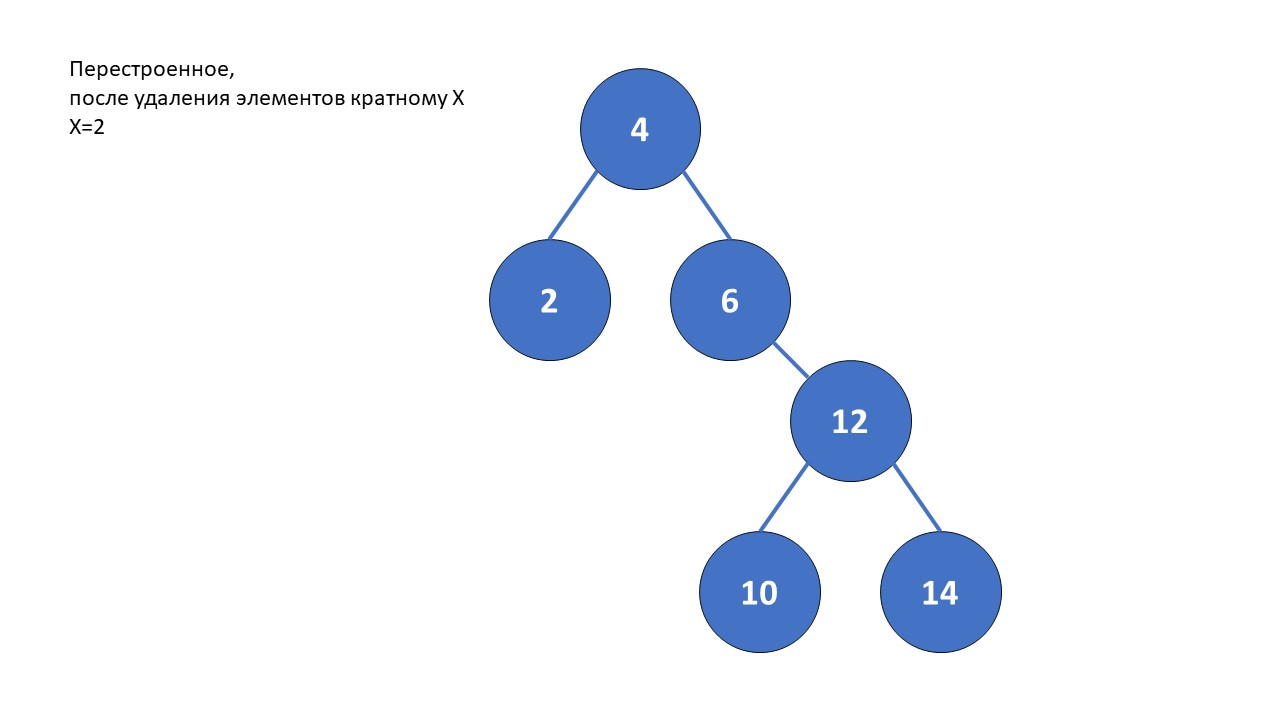
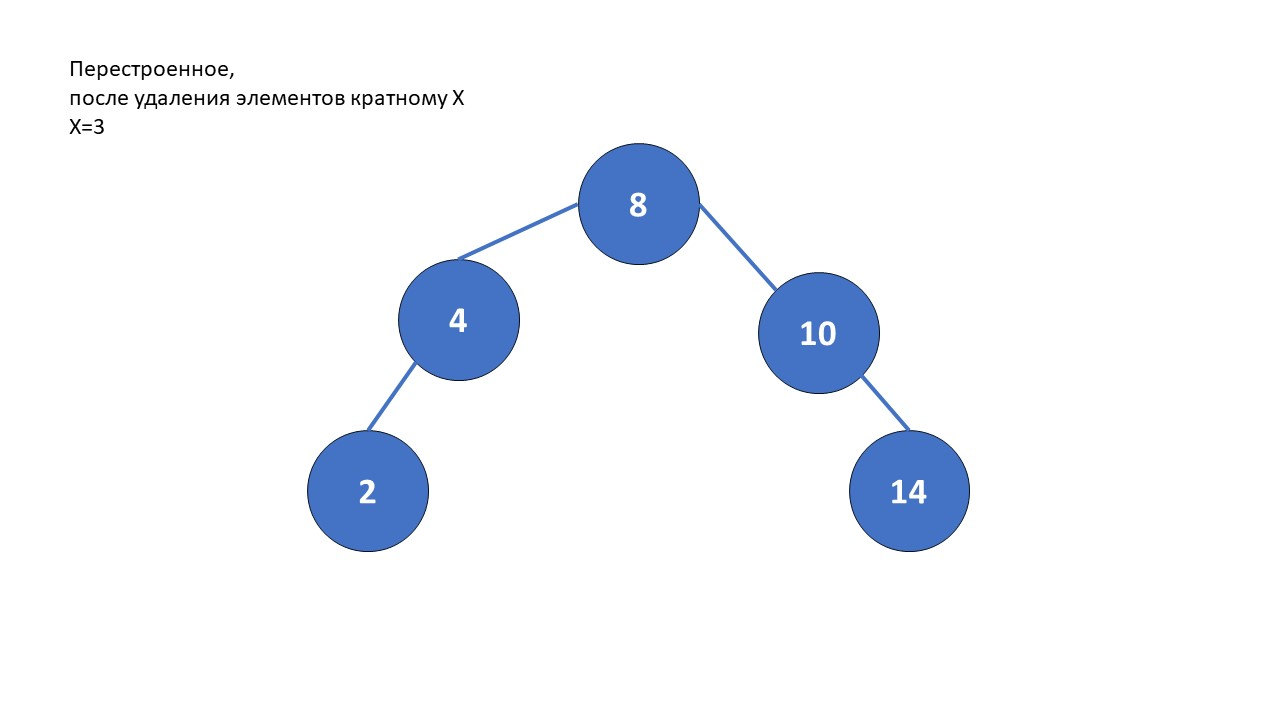
Сделано Tree1 и Tree2

Changed region(s): [[0.3125, 0.0917, 0.7812, 0.9167], [0.5312, 0.6722, 0.6562, 0.9167], [0.2188, 0.55, 0.3438, 0.7639]]

diff --git a/Tree2/Tree2.cpp b/Tree2/Tree2.cpp
@@ -1,20 +1,110 @@
-// Tree2.cpp : Этот файл содержит функцию "main". Здесь начинается и заканчивается выполнение программы.
-//
+#include <iostream>
+using namespace std;
 
-#include <iostream>
+struct Node {
+	int value;
+	Node* left; // потомоки
+	Node* right;
 
-int main()
-{
-    std::cout << "Hello World!\n"; 
+	Node(int val) : value(val), left(nullptr), right(nullptr) {} // Конструктор, который устанавливает значение узла при его создании
+};
+
+// Функция для вставки элемента в дерево
+Node* insert(Node* root, int value) {
+	if (root == nullptr) {
+		return new Node(value);
+	}
+
+	if (value < root->value) {
+		root->left = insert(root->left, value);
+	}
+	else {
+		root->right = insert(root->right, value);
+	}
+
+	return root;
 }
 
-// Запуск программы: CTRL+F5 или меню "Отладка" > "Запуск без отладки"
-// Отладка программы: F5 или меню "Отладка" > "Запустить отладку"
+// Функция для слияния двух поддеревьев
+Node* merge(Node* left, Node* right) {
+	if (left == nullptr) {
+		return right;
+	}
+	if (right == nullptr) {
+		return left;
+	}
 
-// Советы по началу работы 
-//   1. В окне обозревателя решений можно добавлять файлы и управлять ими.
-//   2. В окне Team Explorer можно подключиться к системе управления версиями.
-//   3. В окне "Выходные данные" можно просматривать выходные данные сборки и другие сообщения.
-//   4. В окне "Список ошибок" можно просматривать ошибки.
-//   5. Последовательно выберите пункты меню "Проект" > "Добавить новый элемент", чтобы создать файлы кода, или "Проект" > "Добавить существующий элемент", чтобы добавить в проект существующие файлы кода.
-//   6. Чтобы снова открыть этот проект позже, выберите пункты меню "Файл" > "Открыть" > "Проект" и выберите SLN-файл.
+	// Находим самый правый узел в левом поддереве
+	Node* current = left;
+	while (current->right != nullptr) {
+		current = current->right;
+	}
+
+	// Присоединяем правое поддерево к самому правому узлу левого поддерева
+	current->right = right;
+
+	return left;
+}
+
+
+// Функция для прямого обхода дерева и выполнения операций над значениями
+Node* preOrderTraversal(Node* root, int x) {
+	if (root == nullptr) {
+		return nullptr;
+	}
+
+	// Рекурсивно вызываем обход для левого и правого поддерева
+	root->left = preOrderTraversal(root->left, x);
+	root->right = preOrderTraversal(root->right, x);
+
+	// Выполняем операции над значением узла
+	if (root->value % x == 0) {
+		// Удаляем узел, кратный X
+		Node* left = root->left;
+		Node* right = root->right;
+		delete root;
+		return merge(left, right);
+	}
+
+	return root;
+}
+
+
+// Функция для вывода элементов дерева
+void printTree(Node* root) {
+	if (root == nullptr) {
+		return;
+	}
+
+	cout << root->value << " ";
+	printTree(root->left);
+	printTree(root->right);
+}
+
+int main() {
+	// Создание дерева
+	Node* root = nullptr;
+
+	// Вставка элементов в дерево
+	root = insert(root, 8);
+	root = insert(root, 4);
+	root = insert(root, 12);
+	root = insert(root, 2);
+	root = insert(root, 7);
+	root = insert(root, 10);
+	root = insert(root, 14);
+
+	// Вывод изначального дерева в порядке их обхода
+	cout << "Start tree: ";
+	printTree(root);
+	cout << endl;
+
+	int x=2;
+	// Прямой обход дерева и удаление элементов, кратных X
+	root = preOrderTraversal(root, x);
+
+	// Вывод элементов нового дерева
+	cout << "End Tree: ";
+	printTree(root);
+	cout << endl;
+}

diff --git a/Tree1/Tree1.cpp b/Tree1/Tree1.cpp
@@ -3,10 +3,10 @@ using namespace std;
 
 struct Node {
 	int value;
-	Node* left; //потомоки
-	Node* right; 
+	Node* left; // потомоки
+	Node* right;
 
-	Node(int val) : value(val), left(nullptr), right(nullptr) {} //Конструктор, который устанавливает значение узла при его создании
+	Node(int val) : value(val), left(nullptr), right(nullptr) {} // Конструктор, который устанавливает значение узла при его создании
 };
 
 // Функция для вставки элемента в дерево
@@ -53,6 +53,10 @@ Node* preOrderTraversal(Node* root, int x) {
 		return nullptr;
 	}
 
+	// Рекурсивно вызываем обход для левого и правого поддерева
+	root->left = preOrderTraversal(root->left, x);
+	root->right = preOrderTraversal(root->right, x);
+
 	// Выполняем операции над значением узла
 	if (root->value % x == 0) {
 		// Удаляем узел, кратный X
@@ -61,12 +65,6 @@ Node* preOrderTraversal(Node* root, int x) {
 		delete root;
 		return merge(left, right);
 	}
-
-	cout << root->value << " ";
-
-	// Рекурсивно вызываем обход для левого и правого поддерева
-	root->left = preOrderTraversal(root->left, x);
-	root->right = preOrderTraversal(root->right, x);
 
 	return root;
 }
@@ -103,7 +101,7 @@ int main() {
 
 	cout << "\nEnter X:";
 	int x;
-	cin>>x; // Заданное число X
+	cin >> x; // Заданное число X
 
 	// Прямой обход дерева и удаление элементов, кратных X
 	root = preOrderTraversal(root, x);
